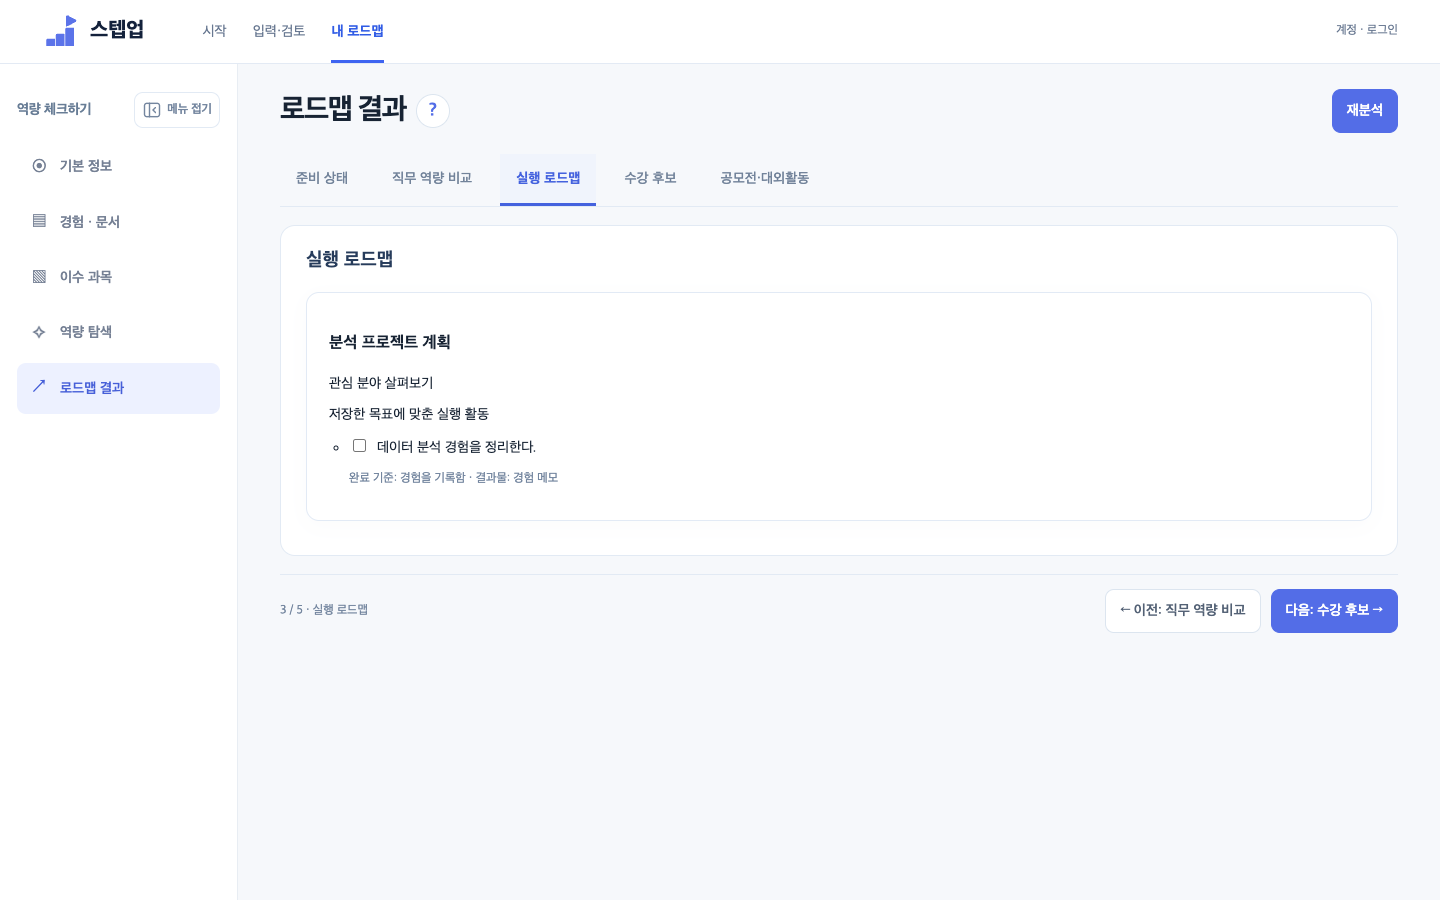
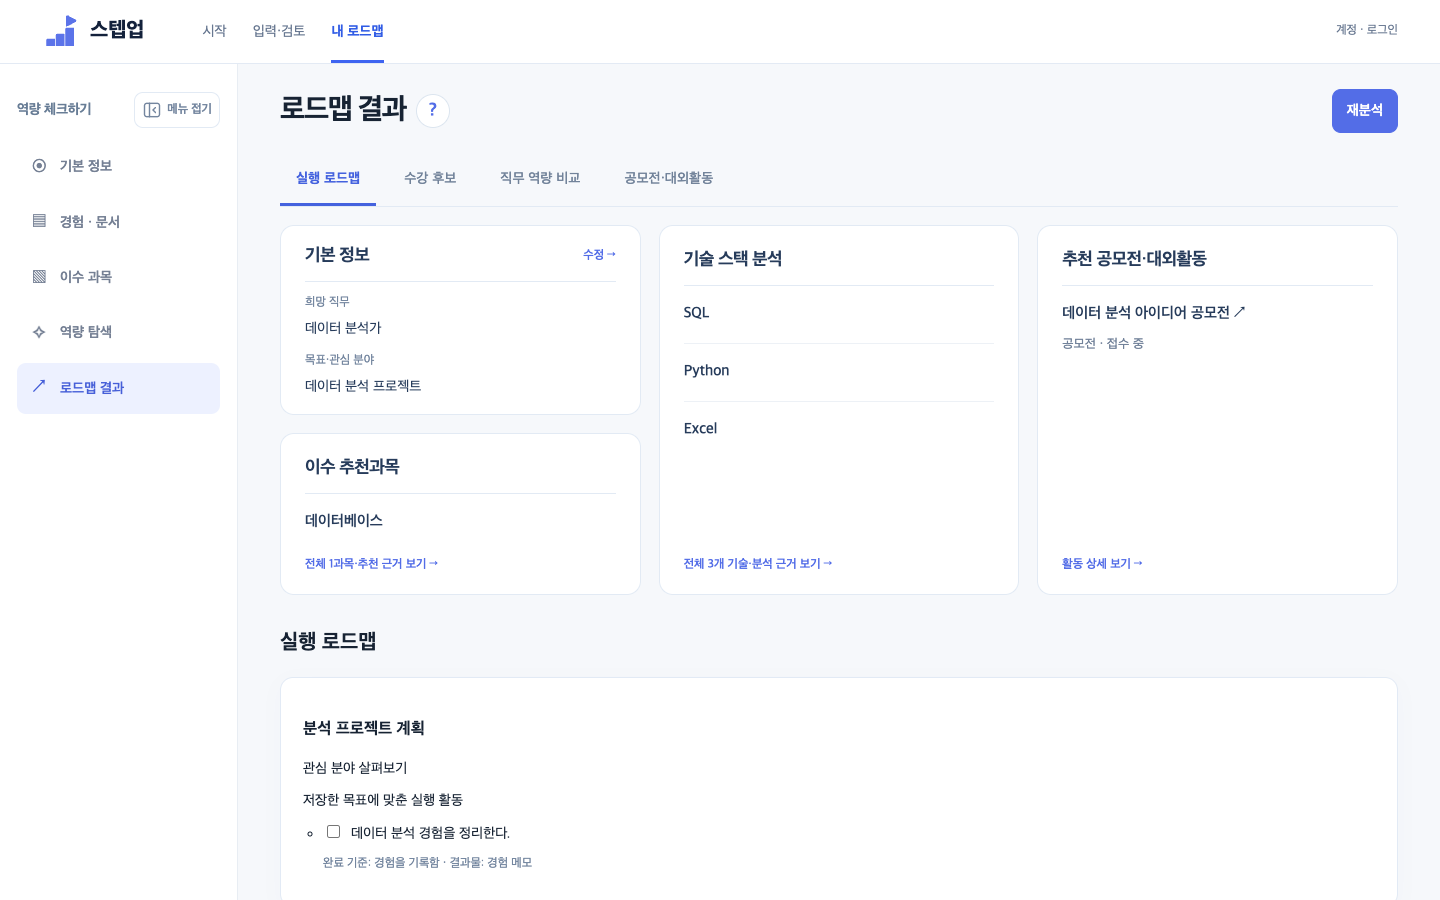
준비 상태 요약을 실행 로드맵에 통합

diff --git a/apps/web/src/features/roadmap/Result.js b/apps/web/src/features/roadmap/Result.js
@@ -30,7 +30,7 @@ export default function Result() {
  const router = useRouter(), searchParams = useSearchParams();
  const selected = Math.max(0, resultTabs.findIndex(tab => tab.key === searchParams.get('tab')));
  const selectedTab = resultTabs[selected].key, nextTab = resultTabs[selected + 1];
- const overview = selectedTab === 'readiness';
+ const overview = selectedTab === 'roadmap';
  const tabNavigation = useRef(false), generationLock = useRef(false), epoch = useRef(0), previousRunId = useRef(null);
  const wantsGeneration = useRef(searchParams.get('generate') === '1');
  const [resources, setResources] = useState({});
@@ -59,7 +59,7 @@ export default function Result() {
   generationLock.current = true;
   const previous = previousRunId.current;
   setTracking({ phase: 'starting', planId: currentPlan.request_id, tasks: {} });
-  router.replace(resultHref('readiness'), { scroll: false });
+  router.replace(resultHref('roadmap'), { scroll: false });
   const base = `/roadmap-inputs/${encodeURIComponent(currentPlan.request_id)}`;
   try {
    const data = await apiRequest(`${base}/roadmap`, { method: 'POST', signal: AbortSignal.timeout(20000),
@@ -82,6 +82,10 @@ export default function Result() {
    } catch { setTracking({ phase: 'unknown', planId: currentPlan.request_id, tasks: {}, detail: error.message }); }
   } finally { generationLock.current = false; }
  }, [router]);
+
+ useEffect(() => {
+  if (searchParams.get('tab') === 'readiness') router.replace(resultHref('roadmap'), { scroll: false });
+ }, [router, searchParams]);
 
  useEffect(() => {
   let disposed = false;
@@ -203,11 +207,11 @@ export default function Result() {
    <JobSkillAnalysis active={selectedTab === 'skills'} savedComparison={result?.skill_comparison} savedRunId={result?.run_id} onResult={onSkillResult} plan={plan} onPlanChange={onPlanChange}/>
    {selectedTab === 'activities' && <ActivityRecommendations active resource={activities}/>}
    {overview && <ResultOverview resources={displayedResources} reload={load} activities={activities}/>}
-   {selectedTab === 'roadmap' && <div><h2>실행 로드맵</h2>
+   {overview && <section className="result-roadmap-steps" aria-labelledby="execution-steps-title"><h2 id="execution-steps-title">실행 로드맵</h2>
     {!hasResult && <p>아직 저장된 실행 로드맵이 없습니다. 로드맵을 만들어 주세요.</p>}
     {result?.is_stale && <p className="notice">이전 입력을 기준으로 저장된 로드맵입니다. 재분석으로 최신 결과를 만들 수 있어요.</p>}
     {hasResult && <ol className="execution-steps">{result.roadmap.map(step => <li className="skill-card" key={step.step_id}><h3>{step.title}</h3><p>{step.purpose}</p><p>{step.reason}</p><ul>{step.tasks.map(task => <li key={task.task_id}><label><input type="checkbox" checked={!!task.is_completed} disabled={progressBusy} onChange={() => setTask(task)}/> {task.action}</label><p className="field-help">완료 기준: {task.completion_criteria} · 결과물: {task.deliverable}</p></li>)}</ul></li>)}</ol>}
-    {progressError && <p role="alert">{progressError}</p>}</div>}
+    {progressError && <p role="alert">{progressError}</p>}</section>}
    {selectedTab === 'courses' && <>
     {resources.roadmap?.phase === 'loading' && <p role="status">저장된 결과를 불러오고 있습니다…</p>}
     {resources.roadmap?.phase === 'error' && <p role="alert">{resources.roadmap.message}</p>}
@@ -217,6 +221,6 @@ export default function Result() {
    </>}
   </section>
   {!overview && <nav className="result-pagination" aria-label="로드맵 결과 순서 이동"><span className="field-help">{selected + 1} / {resultTabs.length} · {resultTabs[selected].label}</span>
-   <div>{selected > 0 && <button type="button" onClick={() => changeTab(selected - 1, true)}>← 이전: {resultTabs[selected - 1].label}</button>}{nextTab ? <button type="button" className="primary" onClick={() => changeTab(selected + 1, true)}>다음: {nextTab.label} →</button> : <button type="button" className="primary" onClick={() => changeTab(0, true)}>결과 확인 완료 · 준비 상태 →</button>}</div></nav>}
+   <div>{selected > 0 && <button type="button" onClick={() => changeTab(selected - 1, true)}>← 이전: {resultTabs[selected - 1].label}</button>}{nextTab ? <button type="button" className="primary" onClick={() => changeTab(selected + 1, true)}>다음: {nextTab.label} →</button> : <button type="button" className="primary" onClick={() => changeTab(0, true)}>결과 확인 완료 · 실행 로드맵 →</button>}</div></nav>}
  </div>;
 }

diff --git a/apps/web/src/app/stepup.css b/apps/web/src/app/stepup.css
@@ -369,6 +369,7 @@ button.academic-change{flex:none;border-color:#cdd9fb;background:#fff;color:#466
 .generation-status.failed{color:#c44444}.generation-status.failed i{border-radius:50%;background:#ffeded;font-weight:800}
 .generation-error{text-align:center;margin-top:24px;color:#ad3838}.generation-error p{margin:0 0 12px}.generation-error button{margin-top:6px}
 .result-generation-heading{display:flex;align-items:center;justify-content:space-between;gap:16px;margin-bottom:16px}.result-generation-heading .page-title-row{margin:0}
+.result-roadmap-steps{margin-top:32px}
 .execution-steps{display:grid;gap:16px;padding:0;list-style:none}.execution-steps ul{padding-left:20px}.execution-steps li label{display:flex;align-items:baseline;gap:8px}
 @keyframes generation-spin{to{transform:rotate(360deg)}}
 @media(prefers-reduced-motion:reduce){.generation-status.running i{animation-duration:2.5s}}

diff --git a/apps/web/tests/e2e/help-examples.md b/apps/web/tests/e2e/help-examples.md
@@ -124,6 +124,8 @@ from the result overview. The lower cards show the first three saved course
 recommendations (in server order), the saved analyzed role, and up to three
 activities. The course tab retains the full filtered list and learning evidence.
 Current completed/reviewed-equivalent course IDs are excluded from both lists.
+Below the overview, the execution steps show completion criteria and let the
+student save task progress. Old `?tab=readiness` links open this same view.
 
 Visits, tab changes, focus and reload only read saved resources. Activity GETs
 read stored catalogs; these paths do not invoke a collector or AI provider.
